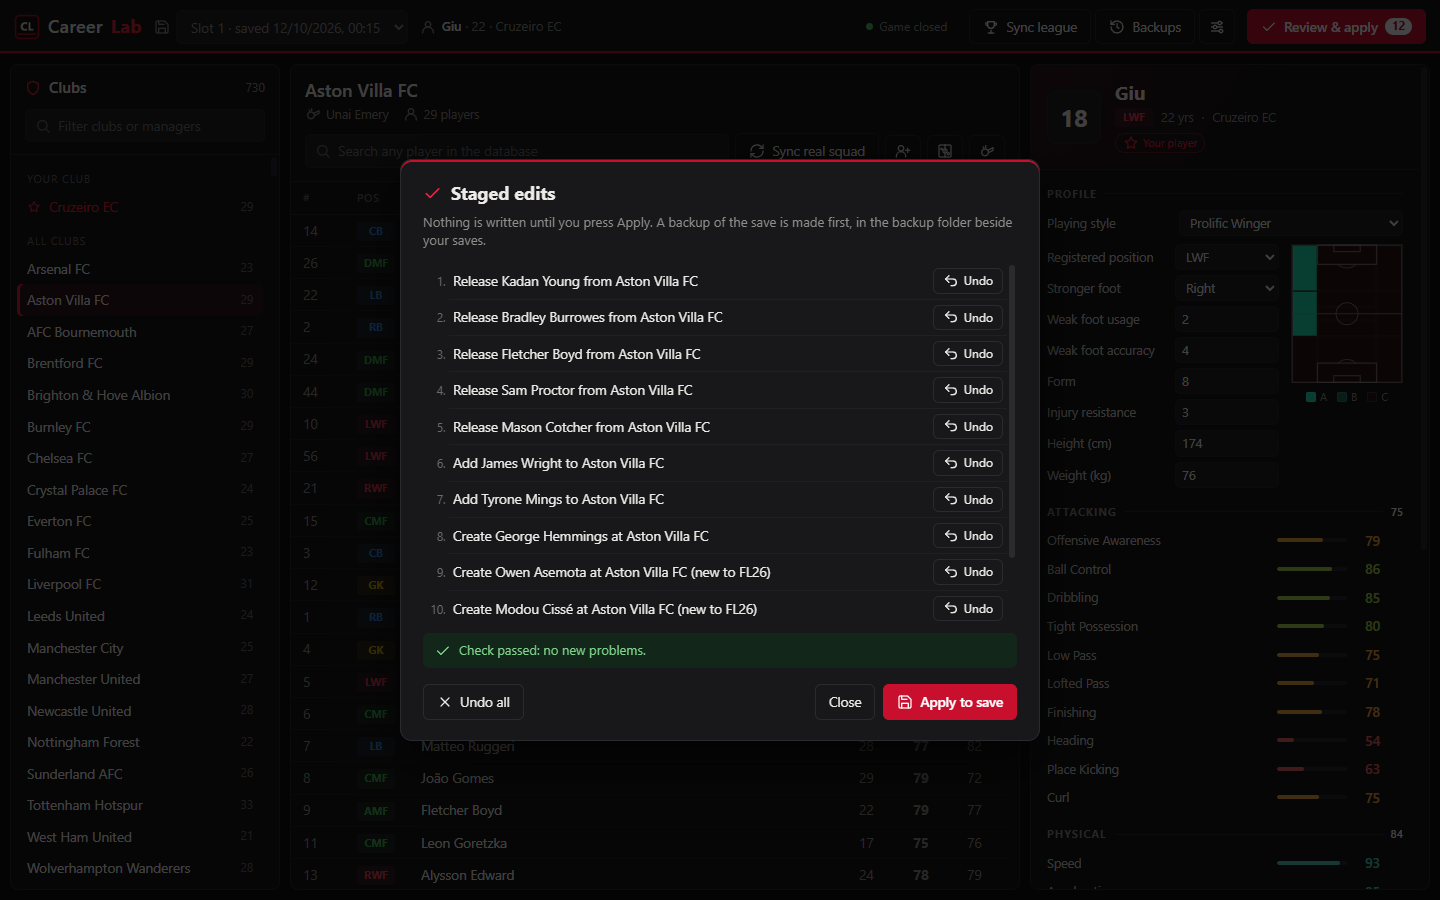
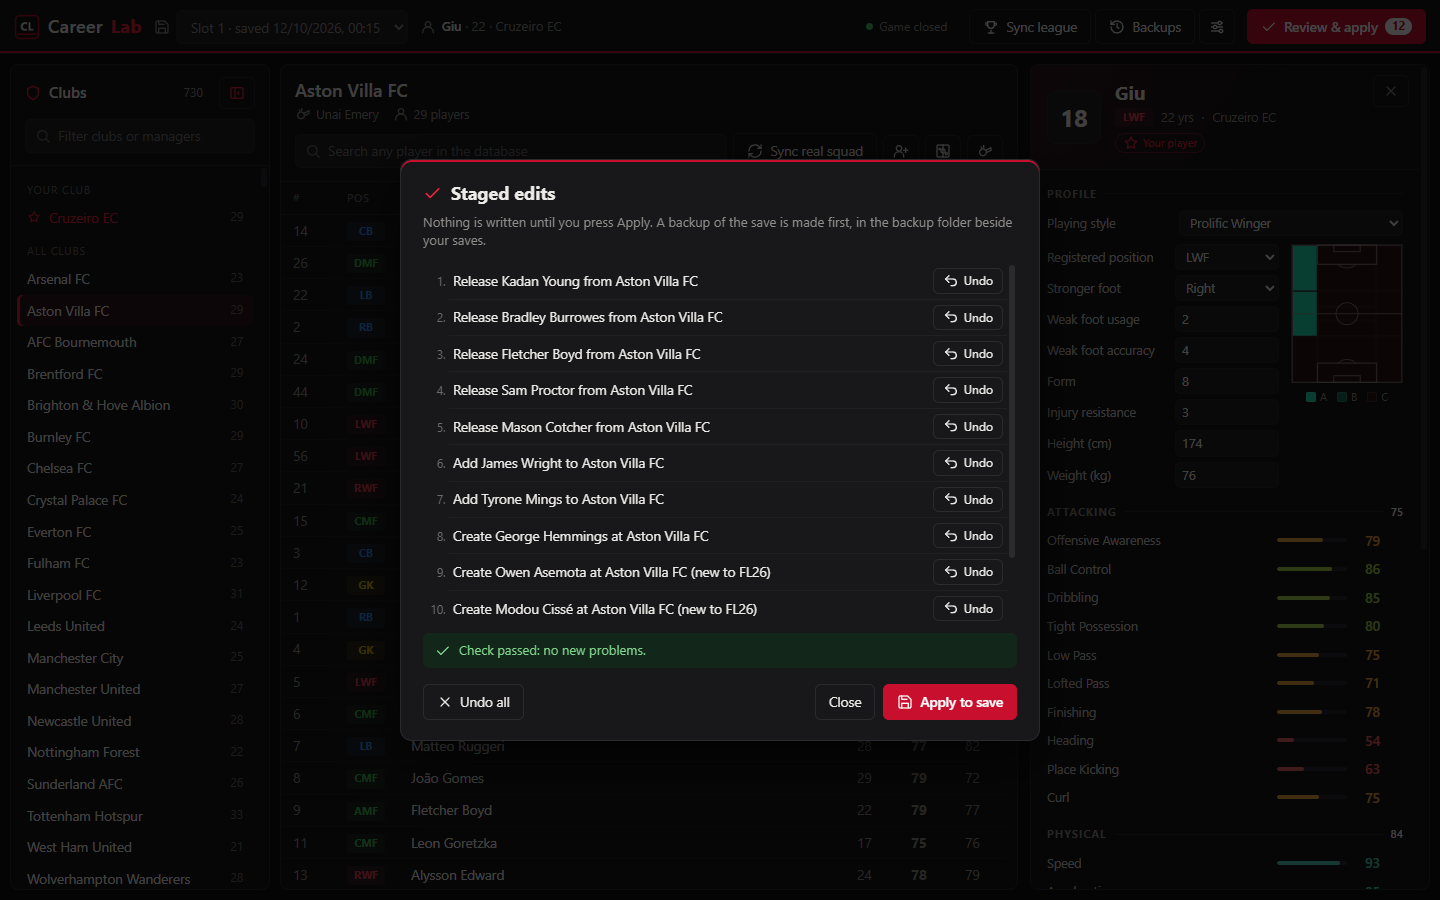
Collapsible club list, resizable squad/player split, player panel only when selected

diff --git a/app/renderer/app.js b/app/renderer/app.js
@@ -260,6 +260,7 @@ function abilityGrid(p, abilities, keys) {
 
 function renderPlayer() {
   const p = state.player;
+  document.body.classList.remove("no-player");
   const box = $("#detail");
   box.className = "detail-card";
   box.innerHTML = "";
@@ -274,7 +275,9 @@ function renderPlayer() {
     el("div", { className: "p-shirt", textContent: inSquad?.shirt ?? "–", title: t("detail.shirtNumber") }),
     el("div", {}, el("h2", { textContent: p.name }),
       el("div", { className: "p-sub" }, badge(p.position), t("detail.years", { n: p.age ?? "?" }), el("span", { textContent: "·" }), where),
-      tags.childNodes.length ? tags : "")));
+      tags.childNodes.length ? tags : ""),
+    (() => { const x = el("button", { className: "ghost icon-only small p-close", title: t("detail.close") }, icon("x"));
+      x.onclick = closePlayer; return x; })()));
 
   const prof = profileSection(p);
   if (prof) box.append(prof);
@@ -531,6 +534,66 @@ function stageAbility(p, k, value, original) {
   const field = p.kind === "created" ? createdField(k) : k;
   stage({ op: p.kind === "created" ? "created" : "attr", pid: p.pid, field, value,
     label: t("lab.ability", { name: p.name, ability: abilName(k), from: original, to: value }) }, true);
+}
+
+function closePlayer() {
+  state.player = null;
+  document.body.classList.add("no-player");
+  if (state.squad) renderSquad();
+}
+
+// ------------------------------------------------------------------ layout (clubs panel, split)
+
+const store = { get: (k) => { try { return localStorage.getItem(k); } catch { return null; } },
+  set: (k, v) => { try { localStorage.setItem(k, v); } catch {} } };
+
+function setClubsCollapsed(on) {
+  document.body.classList.toggle("clubs-collapsed", on);
+  const b = $("#btn-clubs-toggle");
+  b.dataset.i18nTitle = on ? "clubs.expand" : "clubs.collapse";
+  b.title = t(b.dataset.i18nTitle);
+  store.set("careerlab.clubsCollapsed", on ? "1" : "0");
+}
+
+function setDetailWidth(px, save = true) {
+  const layout = $(".layout");
+  if (px == null) { layout.style.removeProperty("--detail-w"); if (save) store.set("careerlab.detailW", ""); return; }
+  layout.style.setProperty("--detail-w", `${Math.round(px)}px`);
+  if (save) store.set("careerlab.detailW", String(Math.round(px)));
+}
+
+function initLayout() {
+  setClubsCollapsed(store.get("careerlab.clubsCollapsed") === "1");
+  const w = Number(store.get("careerlab.detailW"));
+  if (w > 0) setDetailWidth(w, false);
+  $("#btn-clubs-toggle").onclick = (e) => { e.stopPropagation(); setClubsCollapsed(!document.body.classList.contains("clubs-collapsed")); };
+  // collapsed, the whole strip expands the list again
+  $(".clubs").addEventListener("click", () => { if (document.body.classList.contains("clubs-collapsed")) setClubsCollapsed(false); });
+  const rz = $("#resizer");
+  rz.addEventListener("mousedown", (e) => {
+    e.preventDefault();
+    const layout = $(".layout");
+    const clubs = $(".clubs").getBoundingClientRect();
+    rz.classList.add("dragging");
+    document.body.classList.add("resizing");
+    const move = (ev) => {
+      const r = layout.getBoundingClientRect();
+      // the player panel takes what is right of the pointer; the squad keeps at least 380px
+      const max = r.right - 10 - (clubs.right + 10) - 380 - 12;
+      setDetailWidth(Math.max(320, Math.min(max, r.right - 10 - ev.clientX - 6)), false);
+    };
+    const up = () => {
+      document.removeEventListener("mousemove", move);
+      document.removeEventListener("mouseup", up);
+      rz.classList.remove("dragging");
+      document.body.classList.remove("resizing");
+      const v = parseInt(getComputedStyle(layout).getPropertyValue("--detail-w"), 10);
+      if (v) store.set("careerlab.detailW", String(v));
+    };
+    document.addEventListener("mousemove", move);
+    document.addEventListener("mouseup", up);
+  });
+  rz.addEventListener("dblclick", () => setDetailWidth(null));
 }
 
 // ------------------------------------------------------------------ staging
@@ -1138,6 +1201,7 @@ $("#btn-update-check").onclick = async () => renderUpdate(await window.cl.checkU
 window.cl.onUpdate(renderUpdate);
 window.cl.updateState().then(renderUpdate);
 applyStatic();
+initLayout();
 call("set_language", { lang: LANG }).catch(() => null);
 startup();
 pollGame();

diff --git a/app/renderer/styles.css b/app/renderer/styles.css
@@ -79,7 +79,8 @@ button.icon-only { padding: 7px 9px; }
 .top-actions { display: flex; gap: 4px; }
 
 /* layout */
-.layout { display: grid; grid-template-columns: 270px minmax(0, 1fr) 400px; gap: 10px; padding: 10px;
+.layout { --clubs-w: 270px; --detail-w: 400px; display: grid; gap: 0;
+  grid-template-columns: var(--clubs-w) minmax(380px, 1fr) 12px var(--detail-w); padding: 10px;
   height: calc(100% - 54px); }
 .panel { background: var(--panel); border: 1px solid var(--line); border-radius: 8px;
   display: flex; flex-direction: column; min-height: 0; overflow: hidden; }
@@ -255,7 +256,7 @@ input[type=checkbox] { accent-color: var(--red); }
 .setup-step .path { font-size: 12px; word-break: break-all; margin-top: 2px; }
 
 @media (max-width: 1250px) {
-  .layout { grid-template-columns: 230px minmax(0, 1fr) 360px; }
+  .layout { --clubs-w: 230px; }
   .squad-tools button span, .top-actions button span { display: none; }
   .save-box > .i { display: none; }
   .squad-tools button, .top-actions button { padding: 7px 9px; }
@@ -363,3 +364,29 @@ ul:focus, ol:focus, .sync-body:focus, .table-wrap:focus, .detail:focus { outline
 .pitch-legend .sw { width: 10px; height: 10px; border-radius: 2px; border: 1px solid #ffffff22; }
 .pitch-legend .sw.a { background: #1de9b6; } .pitch-legend .sw.b { background: #1de9b666; } .pitch-legend .sw.c { background: #2a1316; }
 .prof-top { grid-template-columns: minmax(0, 1fr) 224px; margin-bottom: 8px; }
+
+/* layout: collapsible clubs, resizable squad/player split, player panel only when selected */
+.layout > .clubs { grid-column: 1; margin-right: 10px; }
+.layout > .squad { grid-column: 2; }
+.layout > .resizer { grid-column: 3; }
+.layout > .detail { grid-column: 4; }
+.resizer { position: relative; cursor: col-resize; }
+.resizer::after { content: ""; position: absolute; left: 5px; top: 50%; width: 2px; height: 44px; margin-top: -22px;
+  border-radius: 2px; background: var(--panel-3); transition: background .12s, height .12s; }
+.resizer:hover::after, .resizer.dragging::after { background: var(--red-glow); height: 80px; margin-top: -40px; }
+body.resizing { cursor: col-resize; user-select: none; }
+body.no-player .layout { grid-template-columns: var(--clubs-w) minmax(380px, 1fr) 0 0; }
+body.no-player .resizer, body.no-player .detail { display: none; }
+body.clubs-collapsed .layout { --clubs-w: 52px; }
+body.clubs-collapsed .clubs .clubs-label, body.clubs-collapsed .clubs .head-count,
+body.clubs-collapsed .clubs .search-box, body.clubs-collapsed .clubs .club-list { display: none; }
+body.clubs-collapsed .clubs .panel-head { padding: 10px 6px; border-bottom: 0; }
+body.clubs-collapsed .clubs .panel-head h2 { flex-direction: column; gap: 10px; margin: 0; }
+.clubs-toggle { margin-left: auto; color: var(--muted); }
+.panel-head h2 .head-count + .clubs-toggle { margin-left: 8px; }
+body.clubs-collapsed .clubs-toggle { margin: 0; }
+body.clubs-collapsed .clubs-toggle .i { transform: scaleX(-1); }
+.p-head { position: relative; }
+.p-close { position: absolute; top: 10px; right: 10px; color: var(--muted); }
+body.clubs-collapsed .clubs { cursor: pointer; }
+body.clubs-collapsed .clubs:hover { border-color: var(--panel-3); }

diff --git a/app/renderer/index.html b/app/renderer/index.html
@@ -6,7 +6,7 @@
   <title>CareerLab</title>
   <link rel="stylesheet" href="styles.css">
 </head>
-<body>
+<body class="no-player">
   <!-- Icon set (24px stroke icons, drawn for CareerLab). Use: <svg class="i"><use href="#i-name"/></svg> -->
   <svg xmlns="http://www.w3.org/2000/svg" style="display:none">
     <defs>
@@ -35,6 +35,7 @@
       <symbol id="i-chevron" viewBox="0 0 24 24"><path d="M9 6l6 6-6 6"/></symbol>
       <symbol id="i-globe" viewBox="0 0 24 24"><circle cx="12" cy="12" r="9"/><path d="M3 12h18"/><path d="M12 3a14 14 0 0 1 0 18"/><path d="M12 3a14 14 0 0 0 0 18"/></symbol>
       <symbol id="i-tactics" viewBox="0 0 24 24"><rect x="3" y="3" width="18" height="18" rx="2"/><path d="M12 3v18"/><circle cx="12" cy="12" r="3"/><path d="M6 8l2 2m0-2l-2 2"/><circle cx="17" cy="16" r="1.5"/></symbol>
+      <symbol id="i-sidebar" viewBox="0 0 24 24"><rect x="3" y="4" width="18" height="16" rx="2"/><path d="M9 4v16"/><path d="M15 10l-2 2 2 2"/></symbol>
       <symbol id="i-cloud" viewBox="0 0 24 24"><path d="M7 18a5 5 0 0 1-.6-10A6 6 0 0 1 18 9a4.5 4.5 0 0 1-.5 9z"/><path d="M12 12v6"/><path d="M9 15l3 3 3-3"/></symbol>
     </defs>
   </svg>
@@ -60,7 +61,8 @@
   <main class="layout">
     <aside class="clubs panel">
       <div class="panel-head">
-        <h2><svg class="i"><use href="#i-shield"/></svg><span data-i18n="clubs.title"></span> <span id="club-count" class="muted head-count"></span></h2>
+        <h2><svg class="i"><use href="#i-shield"/></svg><span data-i18n="clubs.title" class="clubs-label"></span> <span id="club-count" class="muted head-count"></span>
+          <button id="btn-clubs-toggle" class="ghost icon-only small clubs-toggle" data-i18n-title="clubs.collapse"><svg class="i"><use href="#i-sidebar"/></svg></button></h2>
         <div class="search-box">
           <svg class="i"><use href="#i-search"/></svg>
           <input id="club-filter" type="search" data-i18n-placeholder="clubs.filter">
@@ -95,6 +97,7 @@
       </div>
     </section>
 
+    <div id="resizer" class="resizer" data-i18n-title="layout.resize"></div>
     <section class="detail panel">
       <div id="detail" class="detail-empty"><svg class="i big"><use href="#i-user"/></svg><span data-i18n="detail.empty"></span></div>
     </section>

diff --git a/app/renderer/i18n.js b/app/renderer/i18n.js
@@ -12,7 +12,8 @@ const STRINGS = {
     "save.option": "Slot {n}  ·  saved {d}", "save.none": "No Become a Legend saves found", "loading": "Loading…",
     "game.running": "Game running — saving disabled", "game.closed": "Game closed", "game.closeFirst": "Close the game first",
 
-    "clubs.title": "Clubs", "clubs.filter": "Filter clubs or managers", "clubs.yours": "Your club",
+    "clubs.title": "Clubs", "clubs.collapse": "Hide the club list", "clubs.expand": "Show the club list",
+    "detail.close": "Close the player panel", "layout.resize": "Drag to resize · double-click to reset", "clubs.filter": "Filter clubs or managers", "clubs.yours": "Your club",
     "clubs.all": "All clubs", "clubs.manager": "Manager: {name}",
 
     "squad.open": "Open a career", "squad.search": "Search any player in the database",
@@ -153,7 +154,8 @@ const STRINGS = {
     "save.option": "Slot {n}  ·  salvo {d}", "save.none": "Nenhum save do Rumo ao Estrelato encontrado", "loading": "Carregando…",
     "game.running": "Jogo aberto — gravação bloqueada", "game.closed": "Jogo fechado", "game.closeFirst": "Feche o jogo primeiro",
 
-    "clubs.title": "Clubes", "clubs.filter": "Filtrar clubes ou técnicos", "clubs.yours": "Seu clube",
+    "clubs.title": "Clubes", "clubs.collapse": "Ocultar a lista de clubes", "clubs.expand": "Mostrar a lista de clubes",
+    "detail.close": "Fechar o painel do jogador", "layout.resize": "Arraste para redimensionar · clique duplo para voltar", "clubs.filter": "Filtrar clubes ou técnicos", "clubs.yours": "Seu clube",
     "clubs.all": "Todos os clubes", "clubs.manager": "Técnico: {name}",
 
     "squad.open": "Abra uma carreira", "squad.search": "Buscar qualquer jogador do banco de dados",

diff --git a/CHANGELOG.md b/CHANGELOG.md
@@ -1,5 +1,16 @@
 # Changelog
 
+## 2.0.1 — unreleased
+
+- Position map drawn like FL26's player card: the game's pitch zones and markings, A in solid
+  teal, B in light teal; names on hover, click cycles C/B/A.
+- The club list can be collapsed to a slim strip (icon in its header; click the strip to bring
+  it back).
+- The edge between the squad table and the player panel can be dragged to resize them
+  (double-click resets); the width is remembered.
+- The player panel only opens when a player is selected (× closes it), so the squad table
+  uses the full width otherwise.
+
 ## 2.0.0 — 2026-10-12
 
 - **Profile editor**: playing style, registered position, position ratings on a mini pitch
